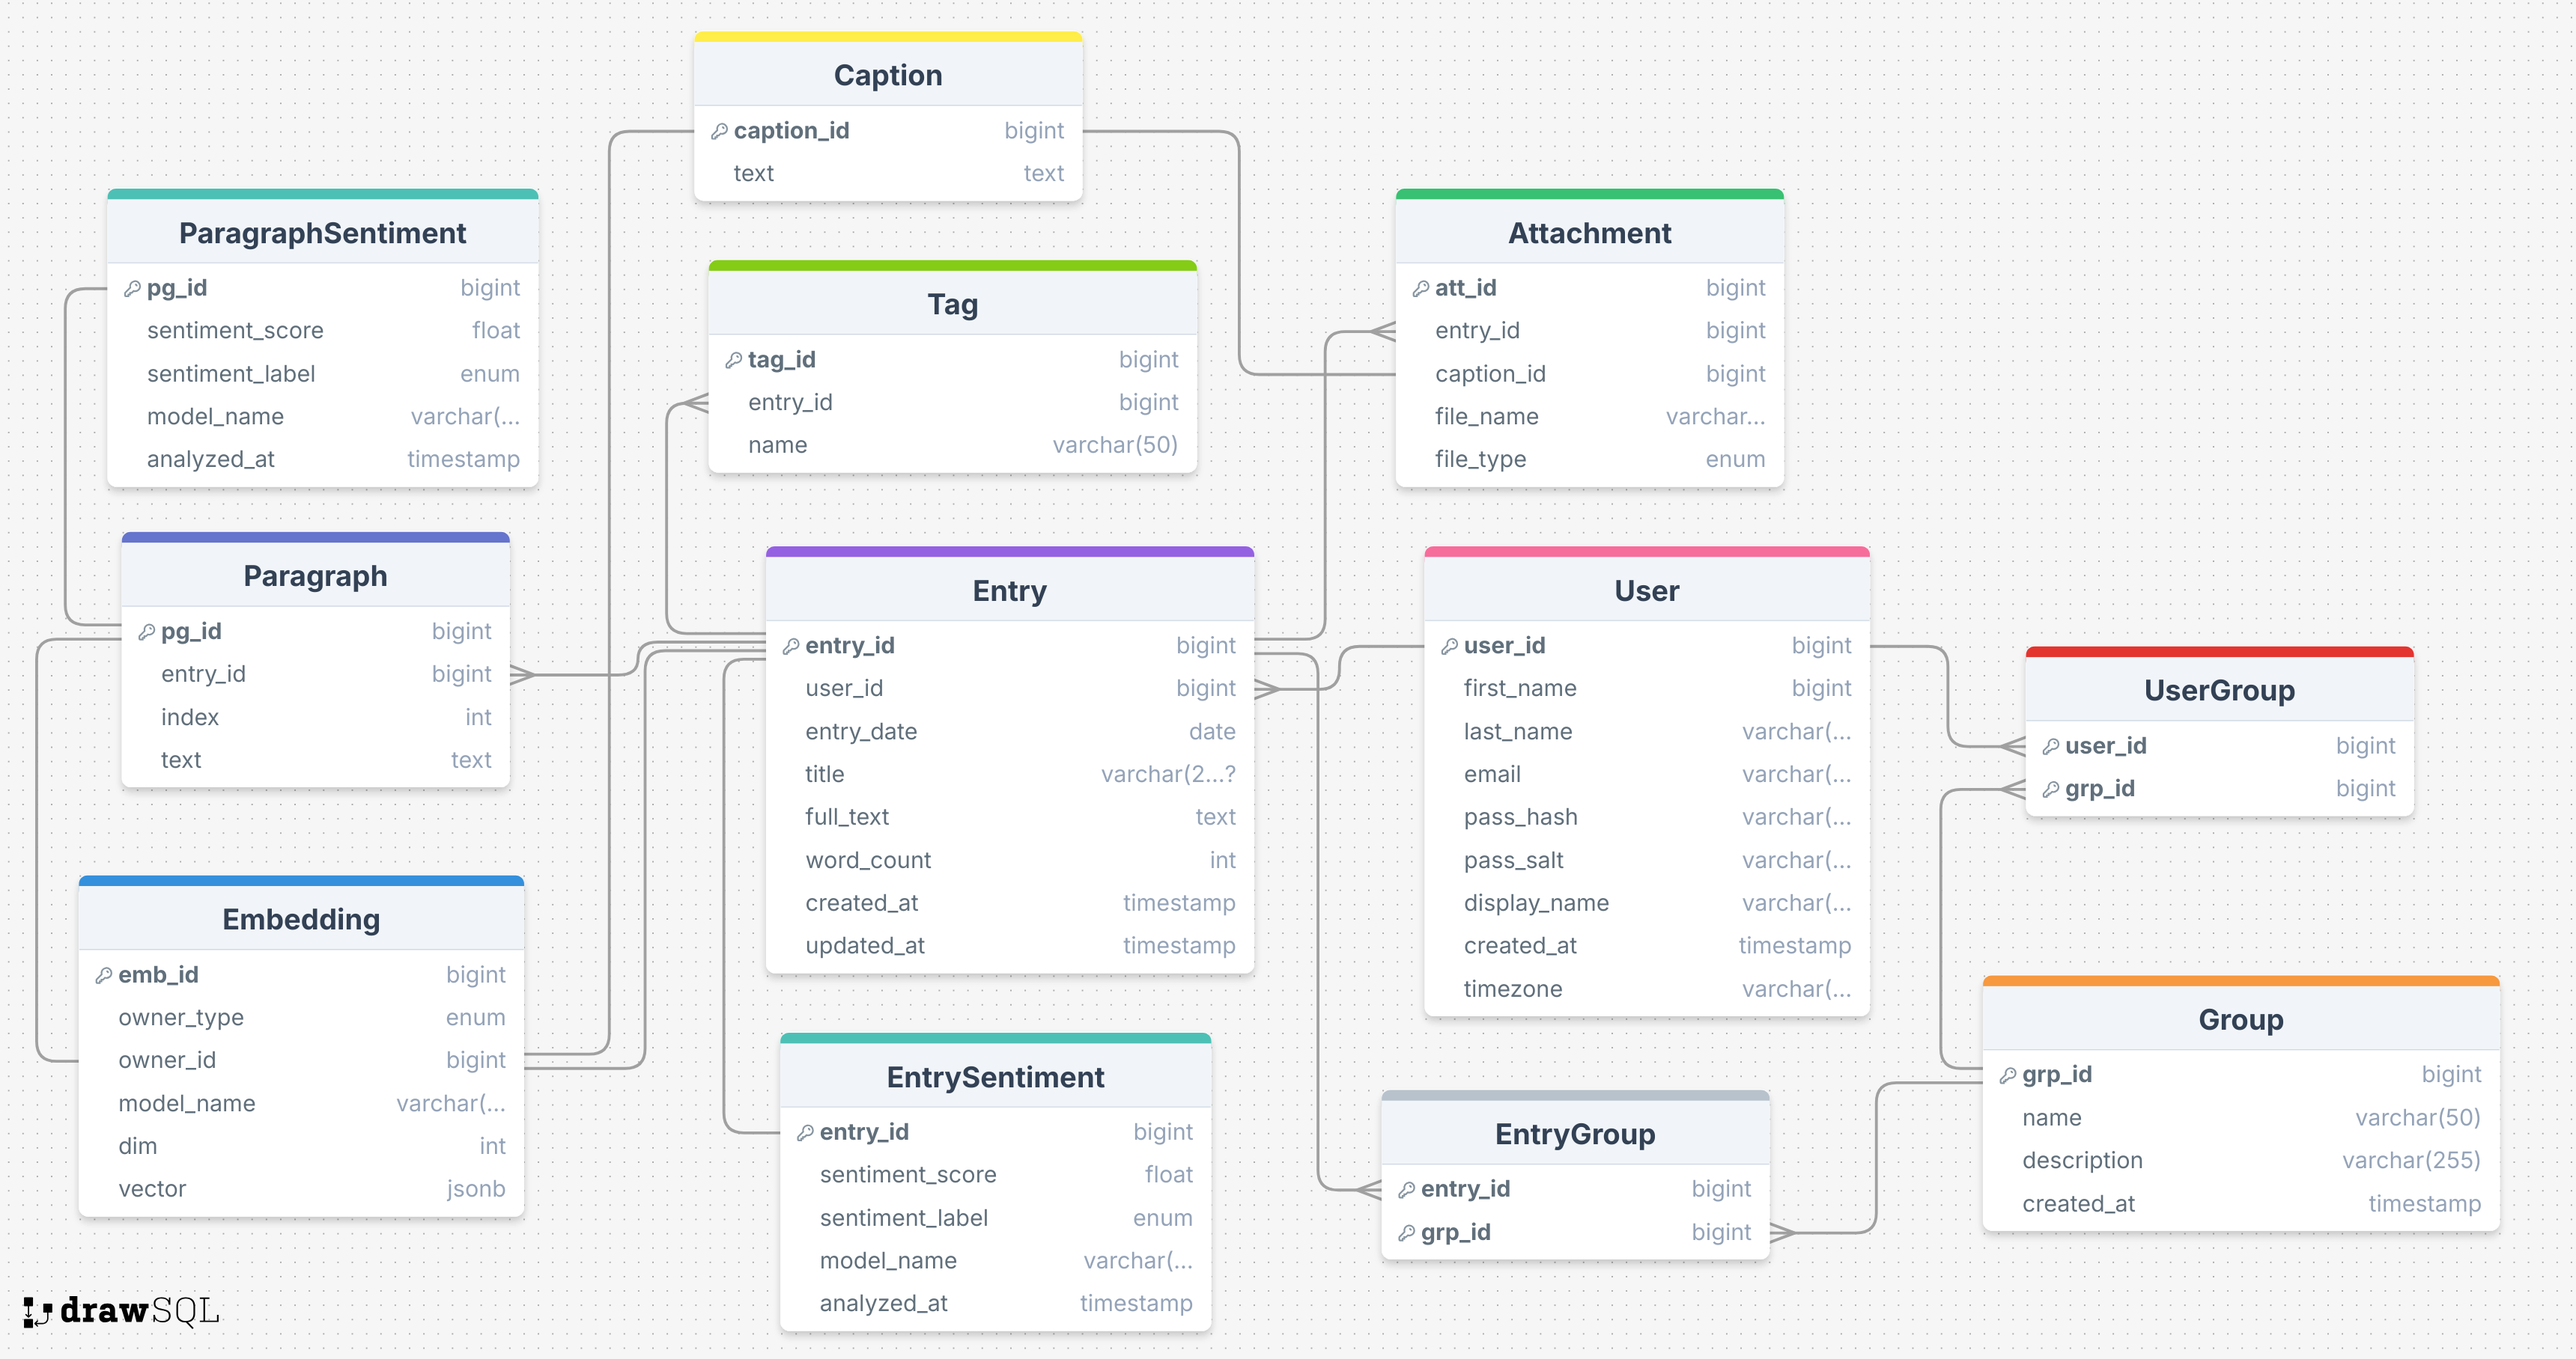
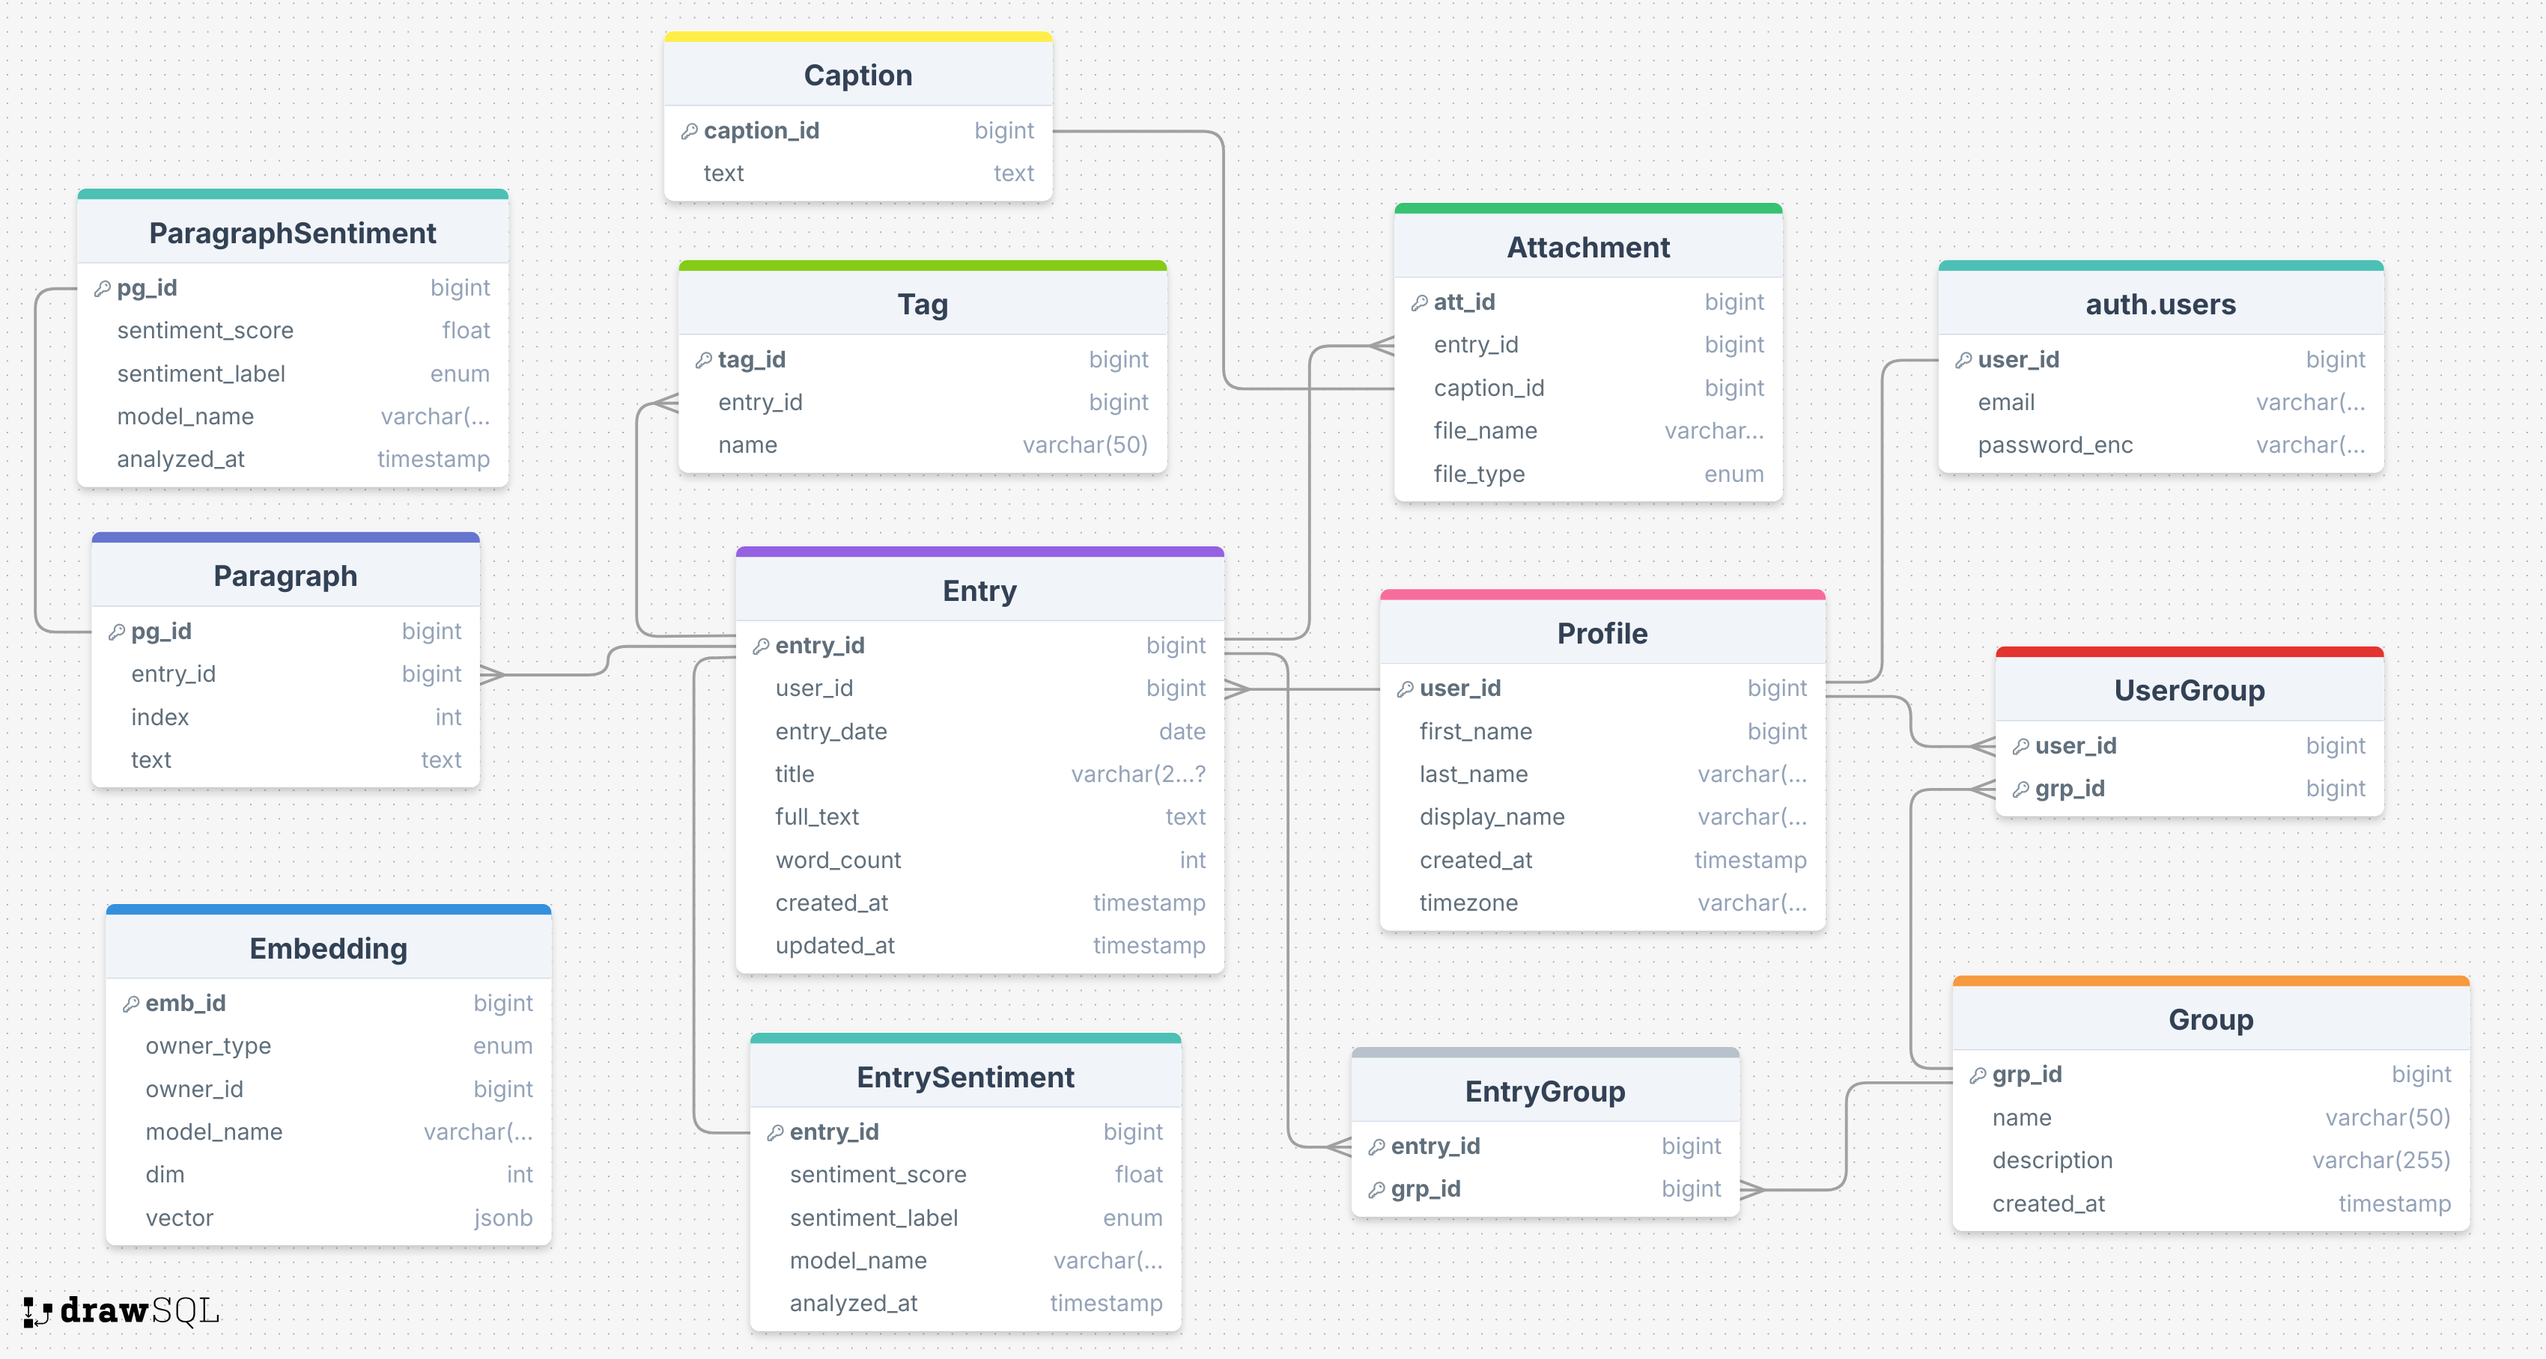
Create authDAO for Supabase

diff --git a/server/src/db/dal/authDAO.ts b/server/src/db/dal/authDAO.ts
@@ -1,0 +1,61 @@
+import { User } from "../../models/User.js";
+import { supabase } from "../supabaseClient.js";
+
+async function register(email: string, password: string): Promise<boolean> {
+    const { data, error } = await supabase.auth.signUp({
+        email: email,
+        password: password
+    });
+    
+    if (error) {
+        console.error(`Error registering: ${error}`);
+        return false;
+    }
+
+    return data.user != null;
+}
+
+async function login(email: string, password: string): Promise<boolean> {
+    const { data, error } = await supabase.auth.signInWithPassword({
+        email: email,
+        password: password
+    });
+
+    if (error) {
+        console.error(`Error signing in: ${error}`);
+        return false;
+    }
+
+    return data.user != null;
+}
+
+async function logout(): Promise<boolean> {
+    const { error } = await supabase.auth.signOut();
+
+    if (error) {
+        console.error(`Error signing out: ${error}`);
+        return false;
+    }
+
+    return true;
+}
+
+async function insertProfile(user: User): Promise<boolean> {
+    const { error } = await supabase
+        .from('profile')
+        .insert({
+            user_id: user.userId!,
+            first_name: user.firstName,
+            last_name: user.lastName,
+            display_name: user.displayName,
+            timezone: user.timeZone,
+            created_at: user.createdAt
+        });
+
+    if (error) {
+        console.error(`Error inserting profile: ${error}`);
+        return false;
+    }
+
+    return true;
+}

diff --git a/server/src/config.ts b/server/src/config.ts
@@ -1,0 +1,12 @@
+import "dotenv/config";
+
+function requireEnv(name: string): string {
+    const value = process.env[name];
+    if (!value) {
+        throw new Error(`Missing required environment variable: ${name}`);
+    }
+    return value;
+}
+
+export const SUPABASE_URL = requireEnv("SUPABASE_URL");
+export const SUPABASE_API_KEY = requireEnv("SUPABASE_API_KEY");

diff --git a/server/src/db/supabaseClient.ts b/server/src/db/supabaseClient.ts
@@ -1,0 +1,10 @@
+import { createClient } from '@supabase/supabase-js';
+import { SUPABASE_URL, SUPABASE_API_KEY } from '../config.js';
+
+export const supabase = createClient(SUPABASE_URL, SUPABASE_API_KEY, {
+    auth: {
+        autoRefreshToken: false,
+        persistSession: false,
+        detectSessionInUrl: false
+    }
+});

diff --git a/server/src/models/User.ts b/server/src/models/User.ts
@@ -1,0 +1,10 @@
+export interface User {
+    userId?: number,
+    email: string,
+    password?: string,
+    firstName: string,
+    lastName: string,
+    displayName: string,
+    createdAt: Date,
+    timeZone: string
+}
